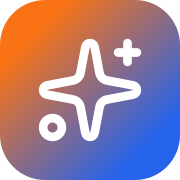
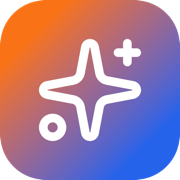
Update StorefrontDirectory, buildStorefrontDirectoryItem, and resolveEnsName

diff --git a/app/src/components/StorefrontDirectory.tsx b/app/src/components/StorefrontDirectory.tsx
@@ -13,9 +13,15 @@ import { storefrontThemeStyle } from "@/lib/storefront-themes";
 import type { Customer, StorefrontRating, SuperReferralsStore } from "@/lib/types";
 import { isUsableEvmAddress } from "@/lib/wallet-address";
 
+type OwnerEnsNetwork = "sepolia" | "mainnet";
+type OwnerEnsLookup = {
+  name: string | null;
+};
+
 export default function StorefrontDirectory() {
   const [store, setStore] = useState<SuperReferralsStore | null>(null);
   const [message, setMessage] = useState("");
+  const [ownerEnsLookups, setOwnerEnsLookups] = useState<Record<string, OwnerEnsLookup>>({});
 
   async function load() {
     setMessage("");
@@ -37,6 +43,39 @@ export default function StorefrontDirectory() {
       .map((customer) => buildStorefrontDirectoryItem(store, customer)) || [],
     [store]
   );
+
+  useEffect(() => {
+    let cancelled = false;
+    const targets = uniqueOwnerEnsTargets(storefronts);
+    if (targets.length === 0) {
+      setOwnerEnsLookups({});
+      return () => {
+        cancelled = true;
+      };
+    }
+    setOwnerEnsLookups((current) => {
+      const keys = new Set(targets.map((target) => target.key));
+      const next = Object.fromEntries(
+        Object.entries(current).filter(([key]) => keys.has(key))
+      ) as Record<string, OwnerEnsLookup>;
+      for (const target of targets) {
+        next[target.key] ||= { name: null };
+      }
+      return next;
+    });
+    Promise.all(targets.map(async (target) => {
+      const name = await resolveOwnerEnsName(target.wallet, target.network);
+      return [target.key, { name }] as const;
+    })).then((entries) => {
+      if (cancelled) {
+        return;
+      }
+      setOwnerEnsLookups((current) => ({ ...current, ...Object.fromEntries(entries) }));
+    }).catch(() => undefined);
+    return () => {
+      cancelled = true;
+    };
+  }, [storefronts]);
 
   return (
     <main className="public-main storefront-directory">
@@ -100,7 +139,9 @@ export default function StorefrontDirectory() {
             <p className="subtle">No storefronts have been created yet.</p>
           </div>
         )}
-        {storefronts.map((item) => (
+        {storefronts.map((item) => {
+          const ownerEnsName = ownerEnsLookups[item.ownerEnsLookupKey]?.name;
+          return (
           <article className="storefront-card storefront-theme" key={item.customer.id} style={storefrontThemeStyle(item.customer.storefront?.themeId)}>
             <div className="storefront-card-header">
               <div>
@@ -119,13 +160,15 @@ export default function StorefrontDirectory() {
               {item.customer.storefront?.description || "Product video storefront ready for wallet users and referral render tasks."}
             </p>
 
-            <div className="storefront-owner">
-              <Wallet size={16} />
-              <span>
-                <strong>Payout path</strong>
-                <code>{isUsableEvmAddress(item.customer.ownerWallet) ? item.customer.ownerWallet : "Platform settlement if configured"}</code>
-              </span>
-            </div>
+            {ownerEnsName && (
+              <div className="storefront-owner" aria-label={`Store owner ENS ${ownerEnsName}`}>
+                <Wallet size={16} />
+                <span>
+                  <span className="sr-only">Store owner ENS</span>
+                  <span className="storefront-owner-ens">{ownerEnsName}</span>
+                </span>
+              </div>
+            )}
 
             <div className="storefront-meta-row">
               <span><Film size={15} /> {item.renderCount} renders</span>
@@ -164,7 +207,8 @@ export default function StorefrontDirectory() {
               )}
             </div>
           </article>
-        ))}
+          );
+        })}
       </section>
     </main>
   );
@@ -183,6 +227,9 @@ function buildStorefrontDirectoryItem(store: SuperReferralsStore, customer: Cust
   const maxPrice = priceValues.length ? Math.max(...priceValues) : 0;
   return {
     customer,
+    ownerWallet: customer.ownerWallet,
+    ownerEnsNetwork: ownerEnsNetworkForCustomer(customer),
+    ownerEnsLookupKey: ownerEnsLookupKey(customer),
     routeCodes: routeAccounts.map((account) => account.referrerCode),
     subAccountCount: routeAccounts.length,
     renderCount: store.generations.filter((generation) => generation.customerId === customer.id).length,
@@ -197,6 +244,44 @@ function buildStorefrontDirectoryItem(store: SuperReferralsStore, customer: Cust
       `${item.videoModel} ${item.aspectRatio}: ${details.pricePerSecondUsd.toFixed(2)} USDC/sec`
     )
   };
+}
+
+function uniqueOwnerEnsTargets(items: ReturnType<typeof buildStorefrontDirectoryItem>[]) {
+  const targets = new Map<string, { key: string; wallet: string; network: OwnerEnsNetwork }>();
+  for (const item of items) {
+    if (!isUsableEvmAddress(item.ownerWallet)) {
+      continue;
+    }
+    targets.set(item.ownerEnsLookupKey, {
+      key: item.ownerEnsLookupKey,
+      wallet: item.ownerWallet,
+      network: item.ownerEnsNetwork
+    });
+  }
+  return [...targets.values()];
+}
+
+async function resolveOwnerEnsName(wallet: string, network: OwnerEnsNetwork) {
+  const response = await fetch("/api/ens/resolve", {
+    method: "POST",
+    headers: { "content-type": "application/json" },
+    body: JSON.stringify({ address: wallet, network })
+  });
+  if (!response.ok) {
+    return null;
+  }
+  const data = await response.json() as { result?: { name?: unknown } };
+  return typeof data.result?.name === "string" && data.result.name
+    ? data.result.name
+    : null;
+}
+
+function ownerEnsLookupKey(customer: Customer) {
+  return `${ownerEnsNetworkForCustomer(customer)}:${customer.ownerWallet.trim().toLowerCase()}`;
+}
+
+function ownerEnsNetworkForCustomer(customer: Customer): OwnerEnsNetwork {
+  return customer.pricing.chainId === 11155111 ? "sepolia" : "mainnet";
 }
 
 function summarizeRatings(ratings: StorefrontRating[]) {

diff --git a/app/src/lib/ens.ts b/app/src/lib/ens.ts
@@ -1,6 +1,7 @@
 import { createPublicClient, http, namehash, parseAbi } from "viem";
 import { mainnet, sepolia } from "viem/chains";
 import { env } from "./env";
+import { isUsableEvmAddress } from "./wallet-address";
 
 const ENS_REGISTRY_ADDRESS = "0x00000000000C2E074eC69A0dFb2997BA6C7d2e1e";
 const ZERO_ADDRESS = "0x0000000000000000000000000000000000000000";
@@ -24,16 +25,9 @@ export async function resolveEnsName(name: string, options: { network?: string; 
   if (!normalized) {
     throw new Error("ENS name is required");
   }
-  const chainId = options.chainId || ensChainIdForNetwork(options.network) || Number(env("ENS_CHAIN_ID", "1"));
-  const chain = chainId === sepolia.id ? sepolia : mainnet;
+  const chain = ensChainForOptions(options);
   const node = namehash(normalized);
-  const defaultRpcUrl = chain.id === sepolia.id
-    ? "https://ethereum-sepolia-rpc.publicnode.com"
-    : "https://eth.llamarpc.com";
-  const client = createPublicClient({
-    chain,
-    transport: http(env("ENS_RPC_URL", defaultRpcUrl))
-  });
+  const client = createEnsClient(chain);
   const [address, contentHash, avatar, description, resolverAddress, textEntries] = await Promise.all([
     client.getEnsAddress({ name: normalized }).catch(() => null),
     client.getEnsText({ name: normalized, key: "contenthash" }).catch(() => null),
@@ -62,6 +56,54 @@ export async function resolveEnsName(name: string, options: { network?: string; 
     description,
     texts
   };
+}
+
+export async function reverseResolveEnsAddress(address: string, options: { network?: string; chainId?: number } = {}) {
+  const normalized = address.trim();
+  if (!isUsableEvmAddress(normalized)) {
+    throw new Error("A valid wallet address is required for reverse ENS lookup");
+  }
+  const chain = ensChainForOptions(options);
+  const client = createEnsClient(chain);
+  const name = await client.getEnsName({ address: normalized as `0x${string}` }).catch(() => null);
+  return {
+    address: normalized,
+    chainId: chain.id,
+    name
+  };
+}
+
+function ensChainForOptions(options: { network?: string; chainId?: number }) {
+  const chainId = options.chainId || ensChainIdForNetwork(options.network) || Number(env("ENS_CHAIN_ID", "1"));
+  return chainId === sepolia.id ? sepolia : mainnet;
+}
+
+function createEnsClient(chain: typeof mainnet | typeof sepolia) {
+  return createPublicClient({
+    chain,
+    transport: http(ensRpcUrl(chain.id))
+  });
+}
+
+function ensRpcUrl(chainId: number) {
+  const networkOverride = chainId === sepolia.id
+    ? env("ENS_SEPOLIA_RPC_URL")
+    : env("ENS_MAINNET_RPC_URL");
+  if (networkOverride) {
+    return networkOverride;
+  }
+  const genericChainId = Number(env("ENS_CHAIN_ID"));
+  const genericOverride = env("ENS_RPC_URL");
+  if (genericOverride && (!Number.isFinite(genericChainId) || genericChainId === chainId)) {
+    return genericOverride;
+  }
+  return defaultEnsRpcUrl(chainId);
+}
+
+function defaultEnsRpcUrl(chainId: number) {
+  return chainId === sepolia.id
+    ? "https://ethereum-sepolia-rpc.publicnode.com"
+    : "https://ethereum-rpc.publicnode.com";
 }
 
 function ensChainIdForNetwork(network: unknown) {

diff --git a/app/src/app/globals.css b/app/src/app/globals.css
@@ -3243,6 +3243,7 @@ h3 {
 }
 
 .storefront-owner strong,
+.storefront-owner-ens,
 .storefront-owner code {
   display: block;
 }
@@ -3251,6 +3252,18 @@ h3 {
   margin-bottom: 4px;
   font-size: 12px;
   color: var(--muted);
+}
+
+.storefront-owner-ens {
+  color: var(--storefront-text, var(--ink));
+  font-size: 15px;
+  font-weight: 900;
+  line-height: 1.25;
+  overflow-wrap: anywhere;
+}
+
+.storefront-theme .storefront-owner-ens {
+  color: var(--storefront-text);
 }
 
 .storefront-owner code {

diff --git a/app/src/app/api/ens/resolve/route.ts b/app/src/app/api/ens/resolve/route.ts
@@ -1,9 +1,16 @@
 import { NextResponse } from "next/server";
-import { resolveEnsName } from "@/lib/ens";
+import { resolveEnsName, reverseResolveEnsAddress } from "@/lib/ens";
 
 export async function POST(request: Request) {
   try {
     const body = await request.json();
+    if (body.address) {
+      const result = await reverseResolveEnsAddress(String(body.address || ""), {
+        network: String(body.network || ""),
+        chainId: Number(body.chainId) || undefined
+      });
+      return NextResponse.json({ result });
+    }
     const result = await resolveEnsName(String(body.name || ""), {
       network: String(body.network || ""),
       chainId: Number(body.chainId) || undefined

diff --git a/app/src/app/layout.tsx b/app/src/app/layout.tsx
@@ -12,6 +12,7 @@ export const metadata: Metadata = {
     icon: [
       { url: "/favicon.ico", sizes: "any" },
       { url: "/favicon.svg", type: "image/svg+xml" },
+      { url: "/superreferrals-icon.png", sizes: "512x512", type: "image/png" },
       { url: "/favicon-32x32.png", sizes: "32x32", type: "image/png" }
     ],
     apple: [

diff --git a/docs/screencasts/blockchain-usage-narrative.md b/docs/screencasts/blockchain-usage-narrative.md
@@ -1,0 +1,14 @@
+# Blockchain Usage Animation Narrative
+
+10-second voiceover option:
+
+SuperReferrals uses EVM rails where blockchain adds real product value: editable videos keep auditable lineage, iNFTs make generated media ownable, KeeperHub settles supported-token payments while the platform handles iNFT-chain gas, ENS verifies storefront identity, policies keep open stores controlled, and refunds plus referral and iNFT purchases turn usage into revenue.
+
+On-screen beats:
+
+1. Onchain provenance for every edit
+2. iNFTs make the media ownable
+3. Users pay where they already are
+4. ENS storefront identity
+5. Open stores still keep policy control
+6. Revenue follows real usage

diff --git a/docs/screencasts/sponsor-screencast-voiceover.md b/docs/screencasts/sponsor-screencast-voiceover.md
@@ -1,0 +1,13 @@
+# Sponsor Screencast Voiceover
+
+## 0G
+
+First, the finished render and JSON metadata enter the same 0G upload path. Live mode uses the 0G SDK, indexer, and serialized upload transaction. Then finalization turns those roots into iNFT metadata. On staging, the iNFT page shows the video root, metadata root, and URI.
+
+## KeeperHub
+
+KeeperHub starts in the quote path: when payment and settlement tokens differ, SuperReferrals creates a KeeperHub payment intent. The client collects that wallet payment and waits for confirmation. The backend then sends settlement events, and failed or cancelled work can trigger KeeperHub refunds. Staging shows that payment-and-refund story.
+
+## ENS
+
+ENS begins with resolver reads for the wallet, avatar, and SuperReferrals text records. The dashboard writes the storefront proxy records through an ENS resolver multicall. Finally, the storefront directory renders the verified owner ENS badge. The staging directory is the user-facing surface for that identity.